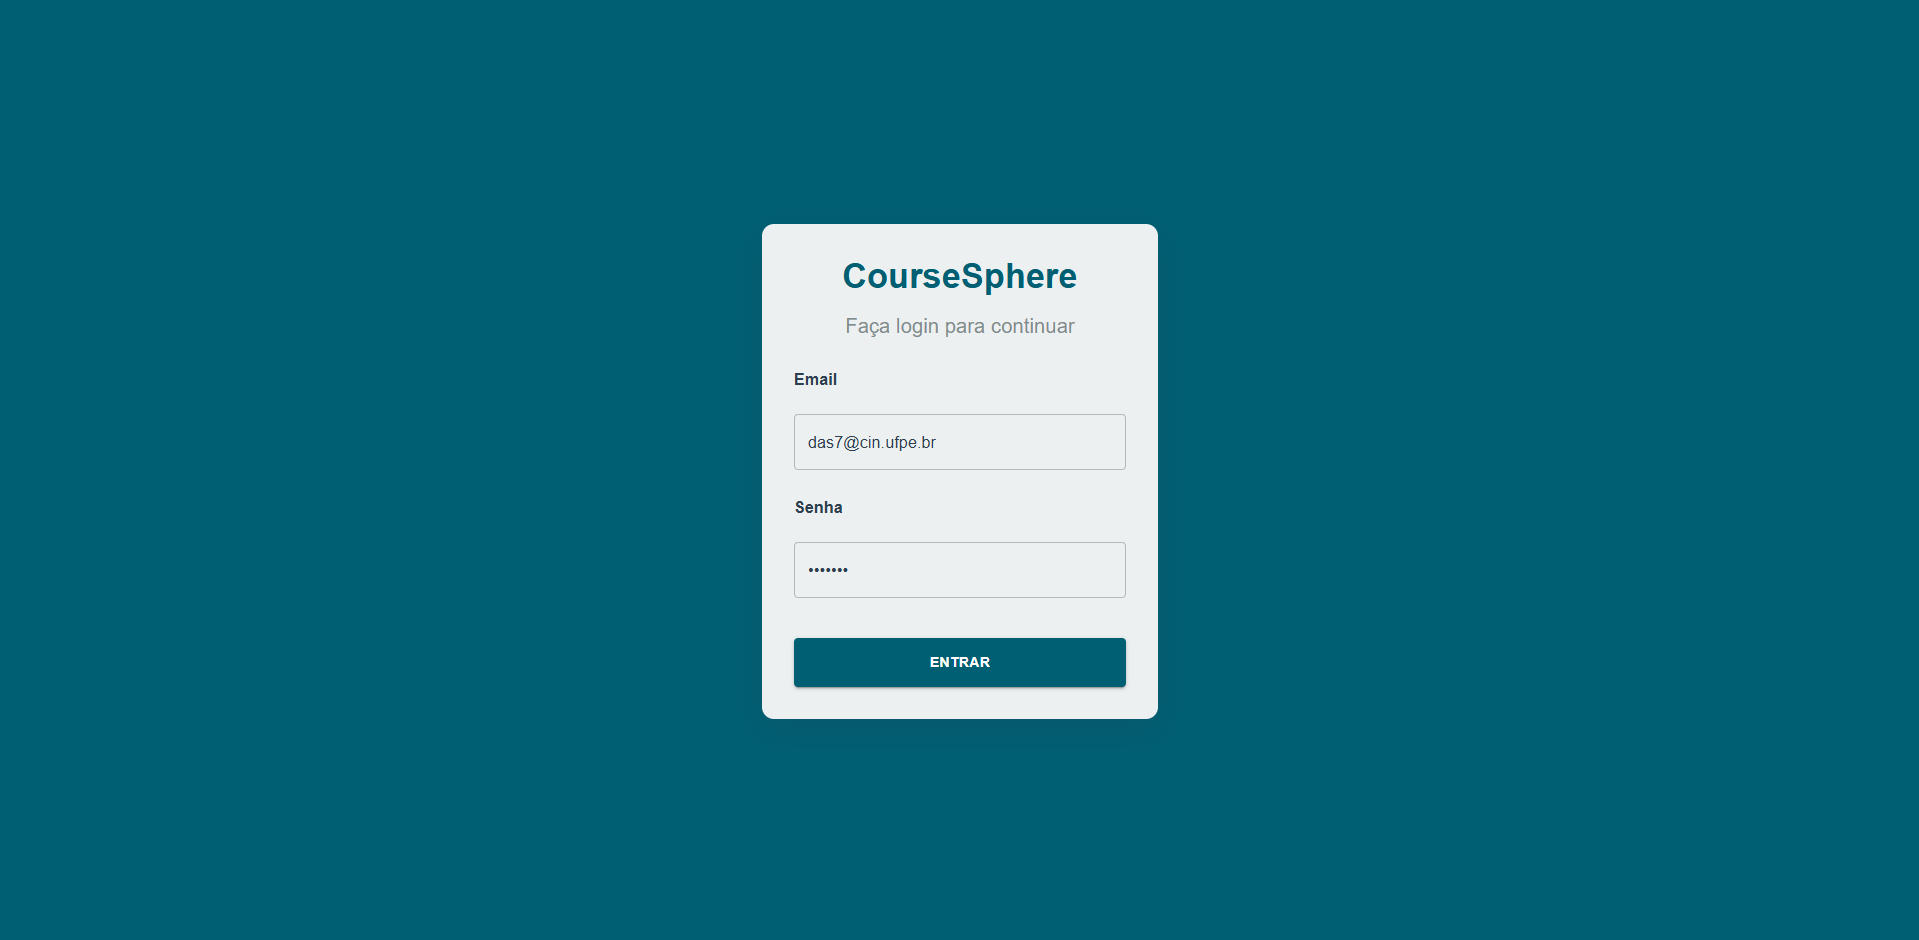
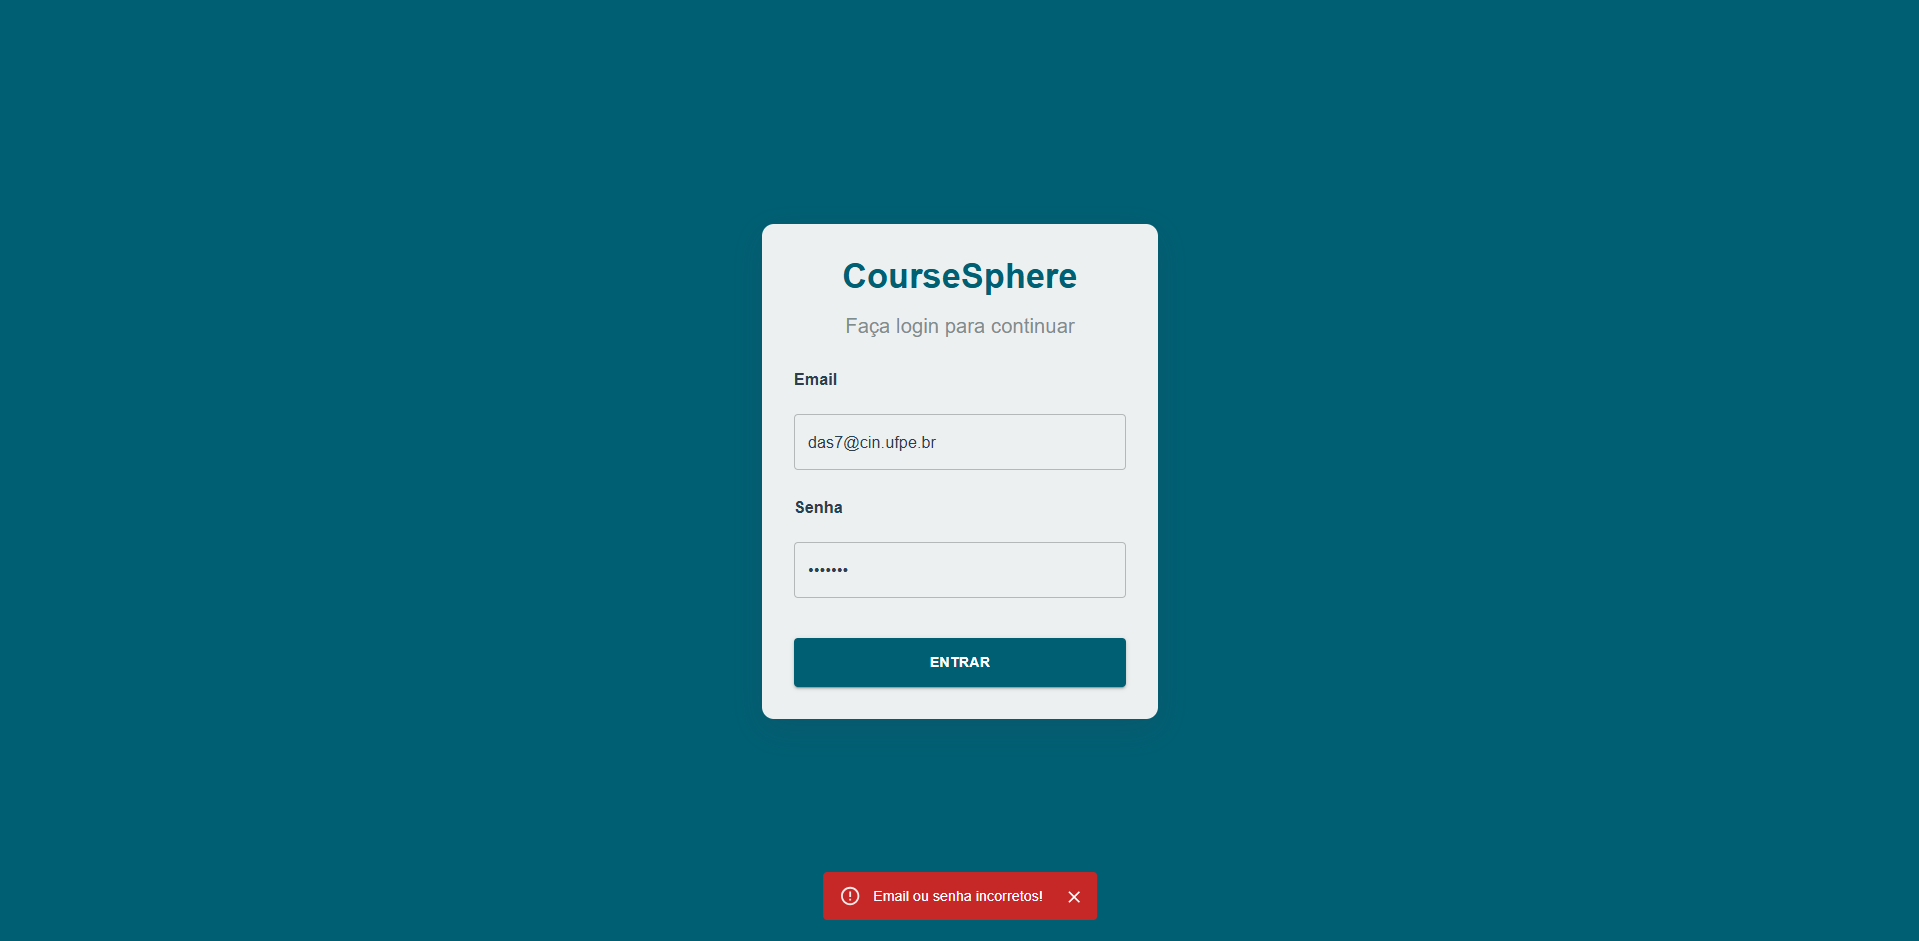
feat(docs): atualiza README com imagens da aplicação

diff --git a/README.md b/README.md
@@ -109,3 +109,43 @@ Crie um arquivo .env dentro da pasta backend com as variáveis de ambiente neces
 - **Validações** de formulários
 </p>
 
+## Imagens da Aplicação
+
+<p align="center">
+  <img src="images/login.png">
+  <img src="images/login-error.png">
+  <img src="images/dashboard.png">
+  <img src="images/new-course.png">
+  <img src="images/new-course-validations.png">
+  <img src="images/new-course-preenchido.png">
+  <img src="images/new-course-criado.png">
+  <img src="images/pagina-curso.png">
+  <img src="images/edicao-curso.png">
+  <img src="images/instrutores.png">
+  <img src="images/adicionar-instrutor.png">
+  <img src="images/adicionar-instrutor-erros.png">
+  <img src="images/importar-instrutores.png">
+  <img src="images/instrutores-importados.png">
+  <img src="images/remover-instrutor.png">
+  <img src="images/instrutor-removido.png">
+  <img src="images/instrutores-adicionados.png">
+  <img src="images/nova-aula.png">
+  <img src="images/nova-aula-validacoes.png">
+  <img src="images/nova-aula-preenchido.png">
+  <img src="images/nova-aula-criada.png">
+  <img src="images/aulas.png">
+  <img src="images/aulas-paginacao.png">
+  <img src="images/filtro-arquivadas.png">
+  <img src="images/filtro-publicadas.png">
+  <img src="images/filtro-busca.png">
+  <img src="images/editar-aula.png">
+  <img src="images/aula-atualizada.png">
+  <img src="images/excluir-curso.png">
+  <img src="images/excluir-aula.png">
+  <img src="images/aula-excluida.png">
+  <img src="images/tela-erro.png">
+  <img src="images/tela-forbidden.png">
+  <img src="images/tela-loading.png">
+  <img src="images/visao-instrutor.png">
+  <img src="images/aula-criada-instrutor.png">
+</p>
